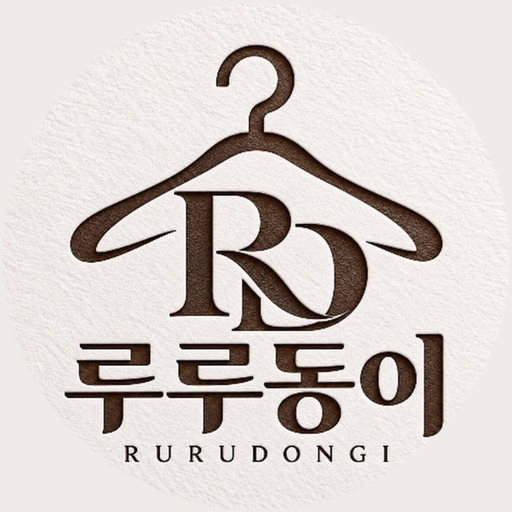
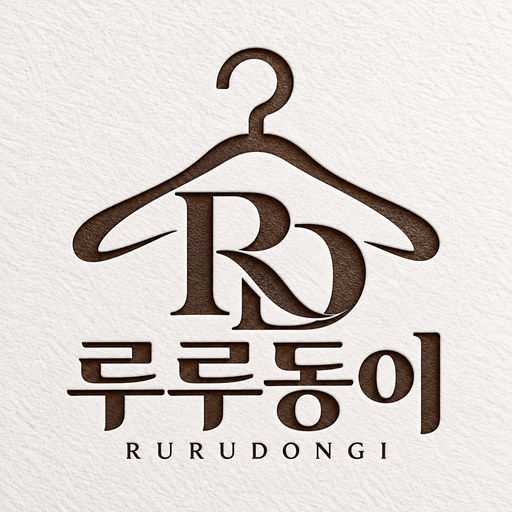
fix(order): 「지금 바로 주문돼요」→「지금 바로 주문 가능」·카드 「바로 주문 가능」(방송 접수 후 주문하라로 헷갈림) · 홈 화면 아이콘을 사장님 원본 로고로(탭 아이콘은 옷걸이 RD만, maskable 은 종이 무늬 이어 붙임)
Claude-Session: https://claude.ai/code/session_01TQMBEC9h6c1TahmvDRkCND

diff --git a/lib/productOrderNotice.ts b/lib/productOrderNotice.ts
@@ -154,9 +154,10 @@ export function effectiveProductNoticeMode(productMode: unknown, badgeTypes: unk
   const list = Array.isArray(badgeTypes) ? badgeTypes : [badgeTypes];
   return list.map((x) => String(x ?? "").trim().toLowerCase()).includes("direct") ? "instant" : "inherit";
 }
-// [2026-10-23 사장님 「난독증 손님도 알아듣게」] 옵션창 가격 옆 = 「지금 바로 주문돼요」, 상품 카드 배지 = 「바로 주문」
-export const INSTANT_BADGE_TEXT = "지금 바로 주문돼요";
-export const INSTANT_CARD_BADGE = "바로 주문";
+// [2026-10-23 사장님 「난독증 손님도 알아듣게」·15:50 「주문돼요」는 «방송 접수 후 바로 주문하라»로 헷갈림]
+// 옵션창 가격 옆 = 「지금 바로 주문 가능」, 상품 카드 배지 = 「바로 주문 가능」(«가능» = 손님이 할 수 있다는 뜻이 분명)
+export const INSTANT_BADGE_TEXT = "지금 바로 주문 가능";
+export const INSTANT_CARD_BADGE = "바로 주문 가능";
 /** 바로 주문 상품인지 — [2026-10-23] 쇼핑몰 진열(in_shop=true) 상품은 설정과 무관하게 무조건 바로 주문 */
 export function isInstantOrderProduct(productMode: unknown, badgeTypes: unknown, globalMode: unknown, inShop?: unknown): boolean {
   if (inShop === true) return true;

diff --git a/DESIGN.md b/DESIGN.md
@@ -107,7 +107,7 @@ size:
 - 할인: 정가 14px mute 취소선 + 「N% 할인」 sale 600 → 아래 판매가 20px/700 ink.
 - **남은 수량**: 남은 수량이 **10개 이하일 때만** 가격 근처에 sale 빨간 글씨 「N개 남음」(이모지·색 배지 없음). 0개면 「품절」, 담기 막힘. 숫자 계산(재고 − 다른 손님 장바구니 선점)은 현행 그대로.
 - **판매 수량은 표시하지 않음** (「N개 판매」, 「N명 구매」 등 금지).
-- **[2026-10-23 사장님]** 카드 배지 = 종류마다 **연한 바탕 + 진한 글씨 알약**(13px/700, 모서리 4) «최대 2개» — 특가 빨강 #D30005/#FDECEC · 마감임박 흰 글씨/#D30005 · 바로 주문 초록 #0B6B3A/#E5F4EC · 신상 파랑 #1D4ED8/#EAF0FF · 업체배송 갈색 #8A4B00/#FFF1DC · 해외배송 보라 #6B2FA3/#F3ECFB · 무료배송 청록 · 인기·급상승 주황 · 루루픽 자주(lib/productBadgePriority CARD_BADGE_TONE). **반짝임·움직임 금지**(읽기 어려움·WCAG 2.2.2/2.3.1). 「바로구매」 글자 → 카드 「바로 주문」, 옵션창 가격 옆 「지금 바로 주문돼요」, 방송 접수 상품 「방송에서 접수한 분만 주문」. 쇼핑몰 진열(in_shop) 상품은 설정 없이 항상 바로 주문. 옵션창 「색상/사이즈를 선택해 주세요」 회색 안내는 담기를 눌렀을 때만(빨강) — 버튼 글자와 중복 금지. 주문 접수 창: 「방송 알림 받는 중」 칸 없음, 「휴대폰 홈 화면에 루루동이 주문서 바로가기 만들기」+「다음부터 아이콘 한 번 누르면 바로 주문서가 열려요」. 홈 화면 아이콘 = 새 루루동이 로고(옷걸이 RD).
+- **[2026-10-23 사장님]** 카드 배지 = 종류마다 **연한 바탕 + 진한 글씨 알약**(13px/700, 모서리 4) «최대 2개» — 특가 빨강 #D30005/#FDECEC · 마감임박 흰 글씨/#D30005 · 바로 주문 가능 초록 #0B6B3A/#E5F4EC · 신상 파랑 #1D4ED8/#EAF0FF · 업체배송 갈색 #8A4B00/#FFF1DC · 해외배송 보라 #6B2FA3/#F3ECFB · 무료배송 청록 · 인기·급상승 주황 · 루루픽 자주(lib/productBadgePriority CARD_BADGE_TONE). **반짝임·움직임 금지**(읽기 어려움·WCAG 2.2.2/2.3.1). 「바로구매」 글자 → 카드 「바로 주문 가능」, 옵션창 가격 옆 「지금 바로 주문 가능」(「주문돼요」는 «방송 접수 후 주문하라»로 헷갈려 폐기, 느낌표 없음), 방송 접수 상품 「방송에서 접수한 분만 주문」. 쇼핑몰 진열(in_shop) 상품은 설정 없이 항상 바로 주문. 옵션창 「색상/사이즈를 선택해 주세요」 회색 안내는 담기를 눌렀을 때만(빨강) — 버튼 글자와 중복 금지. 주문 접수 창: 「방송 알림 받는 중」 칸 없음, 「휴대폰 홈 화면에 루루동이 주문서 바로가기 만들기」+「다음부터 아이콘 한 번 누르면 바로 주문서가 열려요」. 홈 화면 아이콘 = 새 루루동이 로고(옷걸이 RD).
 - (옛 기준·대체됨) **[2026-10-20 ㊴ 6단계]** 배지 = 테두리 없는 13px 글자 «최대 2개» — 「특가」만 sale 빨강(#D30005), 나머지 mute(#707072). 우선순위 특가 > 바로구매 > 신상 > 그 외(lib/productBadgePriority pickCardBadgesS6). 「방송 접수 없이 지금 바로 구매 가능」 문장 삭제(「바로구매」 배지와 중복).
 - **[2026-10-20 ㊴ 6단계]** 상품 칸 아무 데나 탭 = 옵션 창(「+ 담기」와 같은 동작). 사진 탭도 옵션 창(확대는 옵션 창 사진·「크게」). 품절 상품은 칸 탭 동작 없음·사진은 지금처럼 확대. 칸 안의 버튼(「+ 담기」·세부상품 줄 등)은 자기 동작.
 - **「+ 담기」(크게 보기)**: 사진 오른쪽 아래 안쪽 8px, ink #111111 알약 높이 40px(누르는 범위는 둘레 여백 포함 44px 이상), 흰 글자 15/600, + 는 얇은 선 아이콘(1.5px), 흰 1.5px 테두리(어두운 사진에서도 보이게). 사진 확대 버튼 «안»이 아니라 형제로 겹침 — 담기를 눌러도 확대는 안 열리고, 사진의 나머지 부분은 지금처럼 확대. 품절이면 회색 「품절」·눌리지 않음(기존 규칙 그대로).
